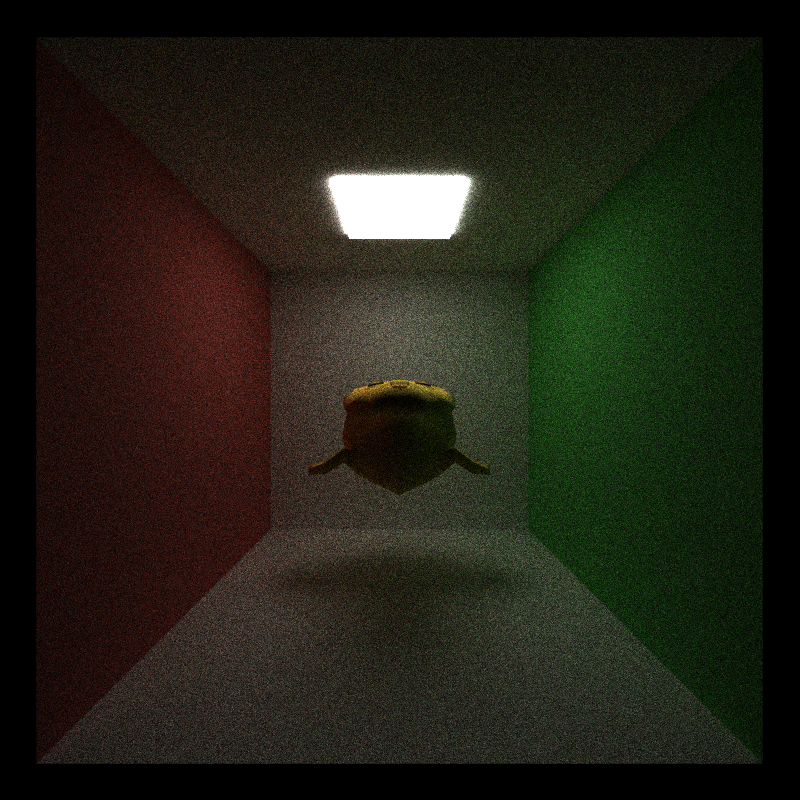
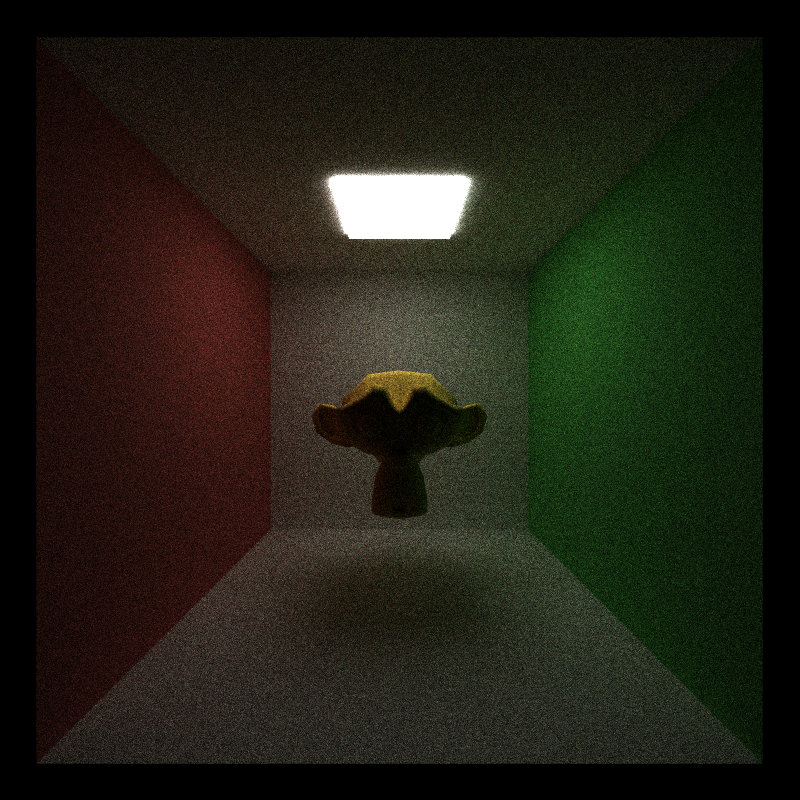
finish the rotation problem and camera issue

Changed region(s): [[0.375, 0.4375, 0.625, 0.6562], [0.3438, 0.75, 0.4688, 0.8125], [0.5312, 0.75, 0.6562, 0.8125]]

diff --git a/src/main.cpp b/src/main.cpp
@@ -443,10 +443,12 @@ int main(int argc, char** argv)
 
     // compute phi (horizontal) and theta (vertical) relative 3D axis
     // so, (0 0 1) is forward, (0 1 0) is up
-    glm::vec3 viewXZ = glm::vec3(view.x, 0.0f, view.z);
-    glm::vec3 viewZY = glm::vec3(0.0f, view.y, view.z);
-    phi = glm::acos(glm::dot(glm::normalize(viewXZ), glm::vec3(0, 0, -1)));
-    theta = glm::acos(glm::dot(glm::normalize(viewZY), glm::vec3(0, 1, 0)));
+    // Fix: runCuda() rebuilds the camera from these angles as the direction from the
+    // look-at point to the camera (= -view), so take the angles of -view. The old
+    // version flipped tilted cameras upside down and lost left/right (acos has no sign).
+    glm::vec3 toCamera = -glm::normalize(view);
+    phi = glm::atan(toCamera.x, toCamera.z);
+    theta = glm::acos(toCamera.y);
     ogLookAt = cam.lookAt;
     zoom = glm::length(cam.position - ogLookAt);
 
